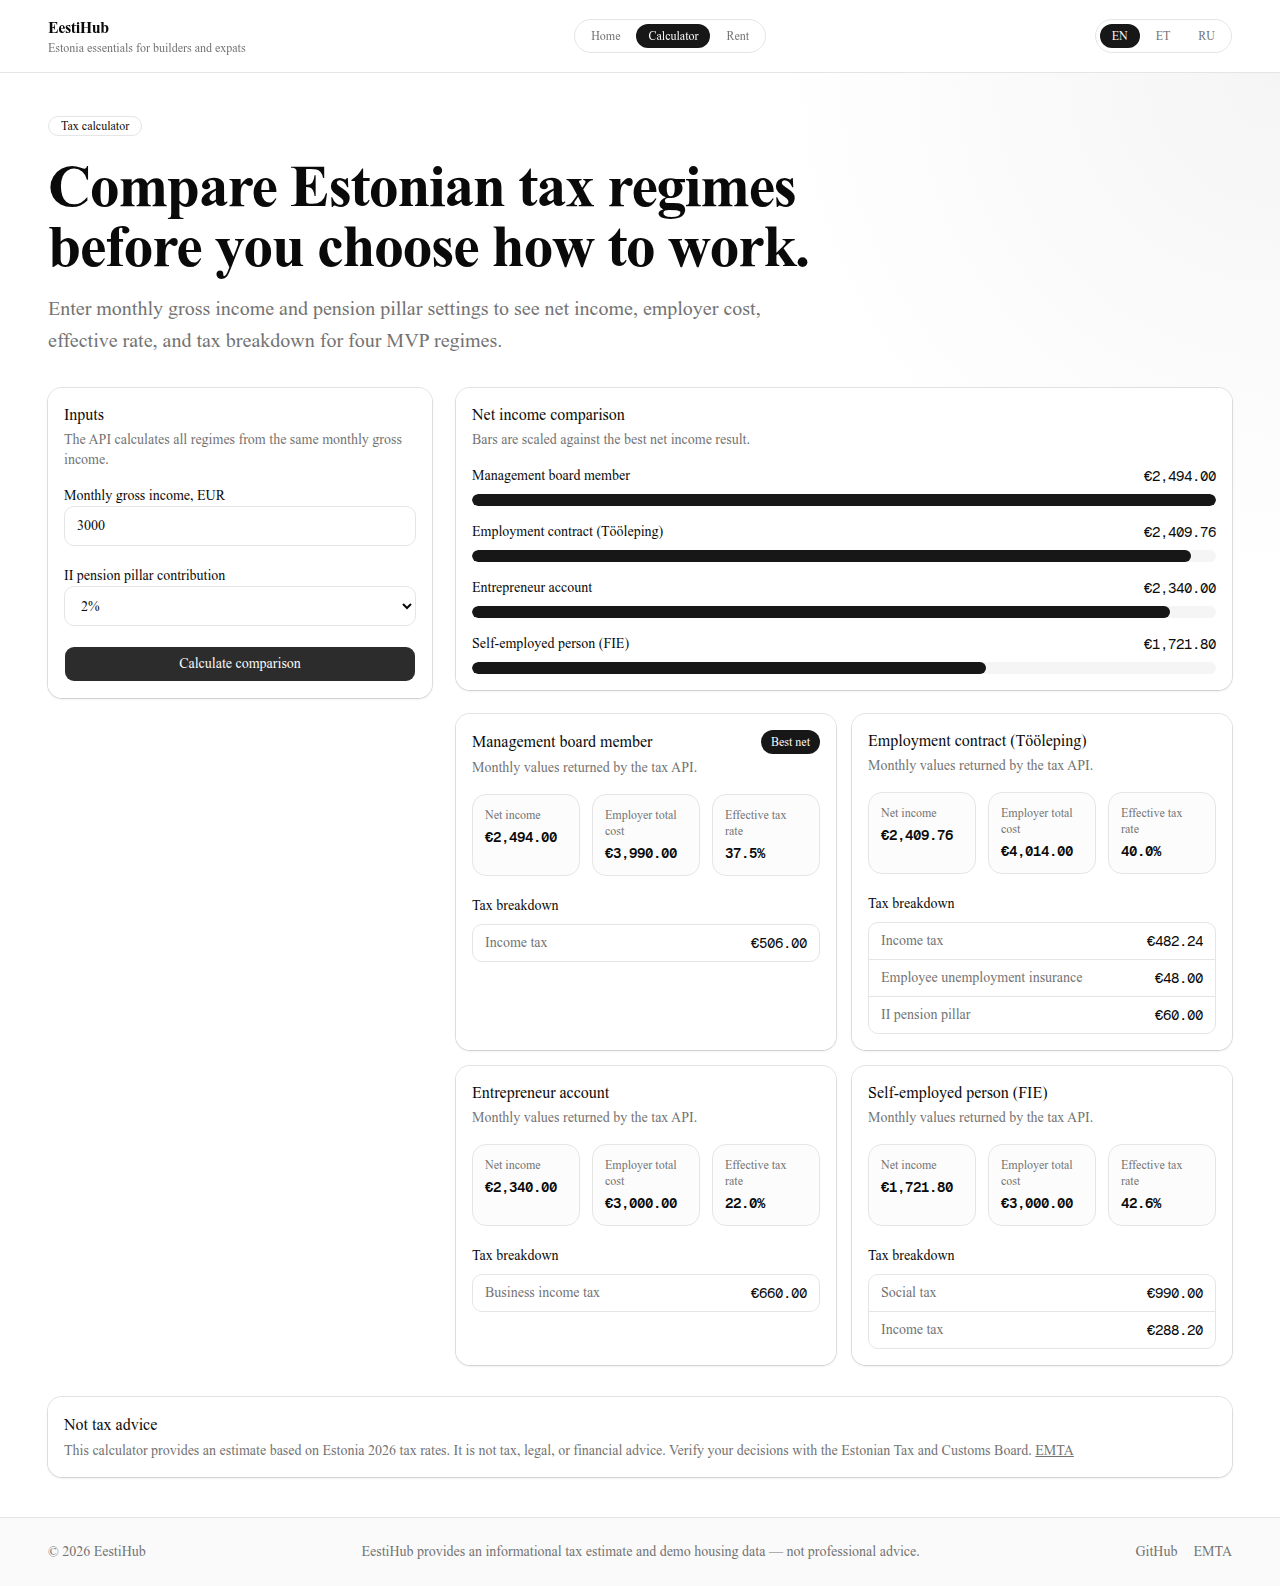
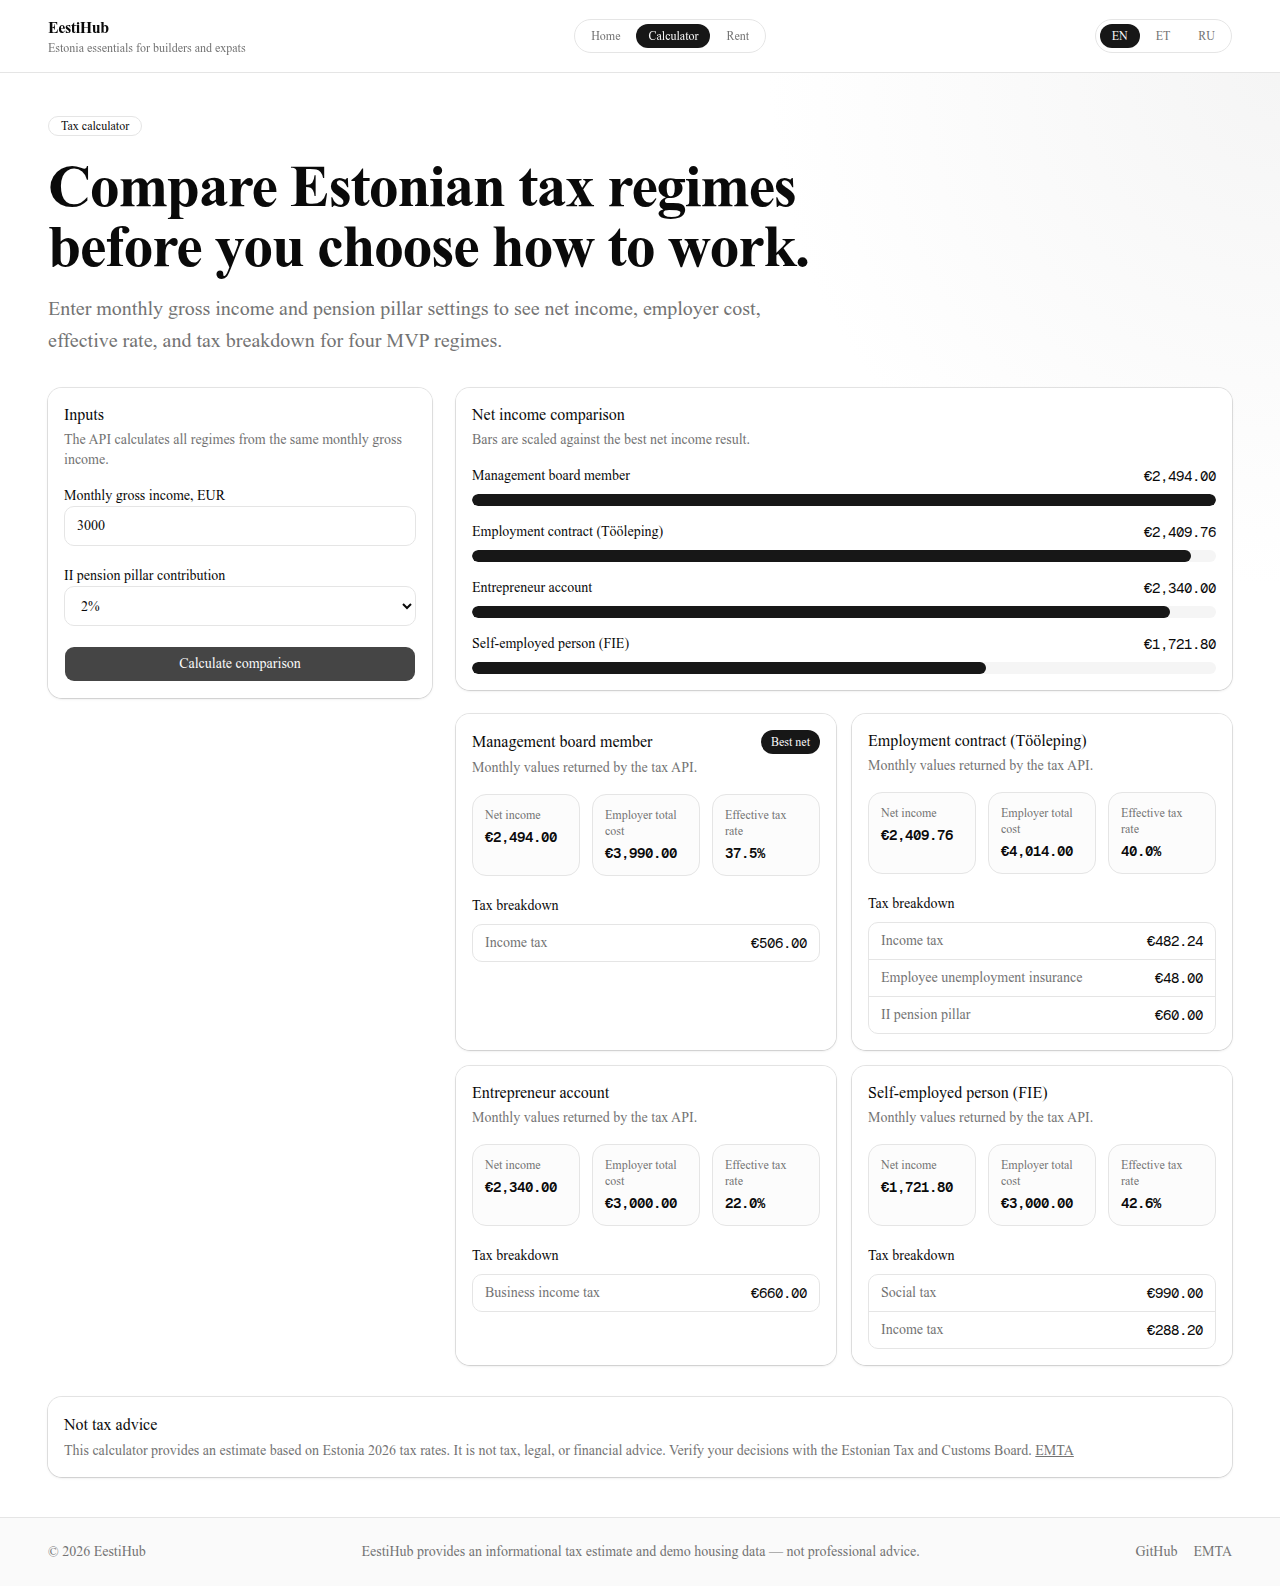
docs: live demo links and prod screenshots, close iteration 5

Changed region(s): [[0.0312, 0.4016, 0.3438, 0.4325]]

diff --git a/TODO.md b/TODO.md
@@ -40,13 +40,15 @@ Rules for workers:
 | T12 | Calculator disclaimer + site footer | tasks/T12-disclaimer-footer.md | `[x]` | deepseek | T06, T07 |
 | T11 | README + MIT license + SEO (x-default, sitemap, robots, OG) | tasks/T11-readme-seo.md | `[x]` | deepseek-pro-v4 | T10, T12 |
 
-## Iteration 5 — deploy (started 2026-07-09)
+## Iteration 5 — deploy (closed 2026-07-09)
 
 | # | Task | Brief | Status | Worker | Depends on |
 |---|------|-------|--------|--------|------------|
 | T13 | Deploy config: Render blueprint, keep-alive, runbook | tasks/T13-deploy.md | `[x]` | deepseek-pro-v4 | T11 |
 
 ## Journal (newest first)
+
+- 2026-07-09 · orchestrator · DEPLOYED TO PRODUCTION. ITERATION 5 CLOSED — the MVP is live: frontend https://eestihub.vercel.app (Vercel Hobby), backend https://eestihub-api.onrender.com (Render Free, Frankfurt), Postgres on Neon Free (eu-central-1, seeded — 8 rows verified by direct SQL). Executed via CLIs/APIs by the orchestrator with the owner doing browser logins (neonctl auth, vercel login) and providing a Render API key; one deviation from the runbook — Render now requires a card on file even for the free plan (owner added one; no charges on free). The Render service was created through the REST API with settings identical to render.yaml (the Blueprint itself was not applied — API path instead). Smoke checks all green: health 200; housing 8 districts from Neon; calculate-taxes €3000/2% → Tööleping net 2409.76; CORS preflight from the Vercel origin → allow-origin echoed; all pages 200 with the online badge; sitemap 9 URLs and robots on the prod domain; a real browser submit on the prod calculator (via the screenshots script) rendered results end-to-end (Vercel → CORS → Render → Neon); `BACKEND_URL` repo variable set, keep-alive dispatched and pinged Render successfully. README: live-demo links replace the placeholder; calculator/housing screenshots refreshed from prod. Post-deploy notes: the owner should ROTATE the Render API key (it transited the chat); Neon created the project on Postgres 17 vs compose's 16 — harmless for this app, alignment optional. The MVP roadmap is complete; anything further (real housing data, custom domain, analytics) is a new iteration on the owner's initiative.
 
 - 2026-07-09 · orchestrator · T13 review: accepted `[x]`. Verified independently: commit scope exactly matches the acceptance criteria (render.yaml, keepalive.yml, DEPLOY.md, README, TODO — no app code, ci.yml, e2e or compose touched); both YAML files parse; no secrets committed (`sync: false` for DATABASE_URL/CORS_ORIGINS); the keep-alive skips with exit 0 when `vars.BACKEND_URL` is unset; DEPLOY.md runbook is complete and correctly ordered (Neon → Render → Vercel → CORS update → BACKEND_URL, smoke checks, free-tier caveats); README Deployment section + live-URL placeholder in place. Two fixes applied at review: `env: python` → `runtime: python` in render.yaml (the `env` field is deprecated in the current Blueprint spec — checked against Render docs) and a "psycopg2" → "psycopg" typo in DEPLOY.md (the project uses psycopg 3). Pushed; live CI + a manual keepalive dispatch (expect a green graceful skip) are the final gates. Review limitation: the Blueprint cannot be validated against Render without applying it — the owner's runbook execution is the real test; if Render rejects a field, it comes back as a fix task. Next: the owner executes docs/DEPLOY.md, then the orchestrator adds the live URL to the README and closes iteration 5.
 - 2026-07-09 · deepseek-pro-v4 · T13 done: created `render.yaml` (Render Blueprint: web service `eestihub-api`, python, free/frankfurt, idempotent seed on boot, health check `/api/v1/health`, PYTHON_VERSION=3.12, DATABASE_URL/CORS_ORIGINS with sync:false); created `.github/workflows/keepalive.yml` (cron */10 + workflow_dispatch, skips gracefully with exit 0 when vars.BACKEND_URL is unset, green before first deploy); wrote `docs/DEPLOY.md` (step-by-step English runbook for Neon→Render→Vercel→CORS_ORIGINS update→BACKEND_URL, smoke checks, free-tier caveats including Render cold start ~1 min, Neon scale-to-zero, GitHub 60-day cron inactivity); added Deployment section to README linking to DEPLOY.md, plus a live-URL placeholder comment · Verified: both YAML files parse clean (Python yaml.safe_load); `cd frontend && npm run build` passes unchanged (regression guard); git diff scope matches acceptance criteria exactly — only render.yaml, .github/workflows/keepalive.yml, docs/DEPLOY.md, README.md, TODO.md; no changes to application code, ci.yml, e2e, or docker-compose. Commit: `ci: render blueprint, keep-alive ping and deploy runbook` (a9aec61).

diff --git a/README.md b/README.md
@@ -1,6 +1,6 @@
 # EestiHub
 
-<!-- TODO: live demo URL -->
+**Live demo: [eestihub.vercel.app](https://eestihub.vercel.app)** · API docs: [eestihub-api.onrender.com/docs](https://eestihub-api.onrender.com/docs)
 
 [![CI](https://github.com/PavluntiyJ/eestihub/actions/workflows/ci.yml/badge.svg)](https://github.com/PavluntiyJ/eestihub/actions/workflows/ci.yml)
 